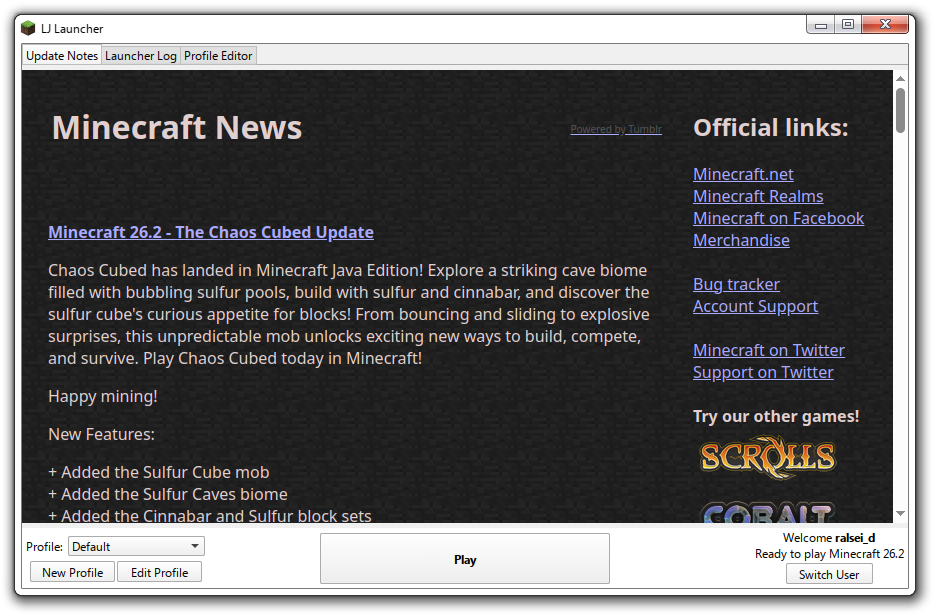
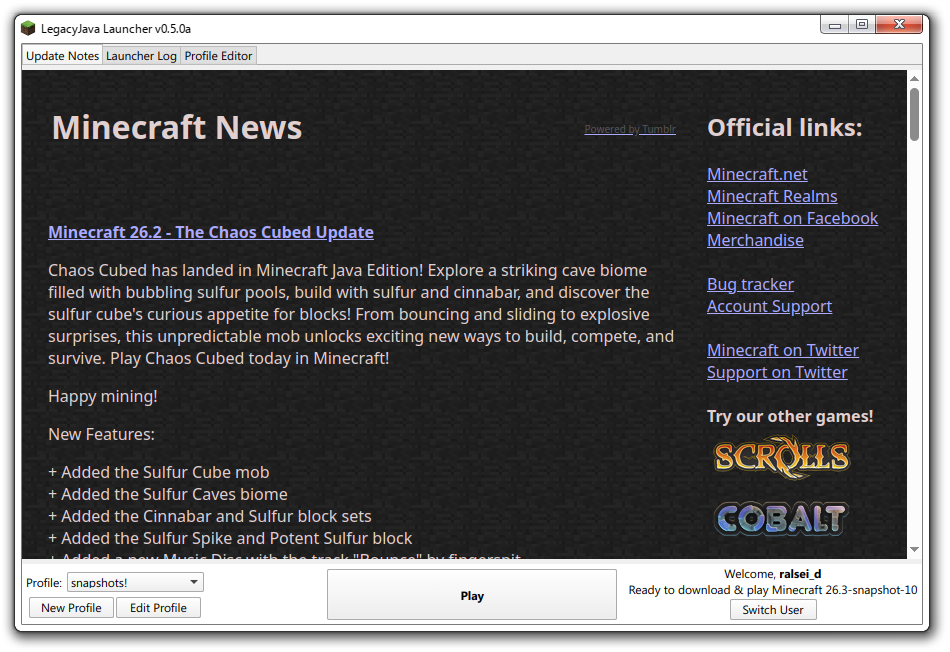
chore(config): update docs

Changed region(s): [[0.0, 0.0, 0.9915, 0.987], [0.5887, 0.1851, 0.7126, 0.2159]]

diff --git a/README.md b/README.md
@@ -7,13 +7,15 @@ This is an accurate-as-possible recreation of Mojang's Classic Minecraft Launche
 I made this in order to understand the fundamentals of how a minecraft launcher works. It taught me how to use dedicated libraries to interact with APIs that provide user authentication, game validity checking and updating attributes. It also required me to create a Microsoft Entra Application, along with applying for access to the Mojang API. It also helped me work with applications that contain different screens, i.e. login screen, main menu, etc. This project incorporates the fundamentals that I learnt from another project, [Run-7](https://github.com/jayrickaby/run-7), to create something that is bigger.
 
 ## Features
-- Microsoft Authentication
+- Full and Secure Microsoft Authentication
 - A full recreation of the MCUpdate Tumblr Blog
-- Version Configurations, Downloading and Launching
-- ~~Profile Creation, Editing and Deletion~~ (TODO)
+- Version Profile Configuration
+- Selection of Alphas, Betas and Snapshots
 - ~~A full recreation of all aspects of the original launcher~~ (TODO)
 - ~~Player Customisation~~ (TODO)
 
 ## Gallery
 <img src="docs/assets/gallery/login.png" width=50% alt="login">
 <img src="docs/assets/gallery/launcher.png" width=50% alt="launcher">
+<img src="docs/assets/gallery/profileEditor.png" width=50% alt="launcher">
+<img src="docs/assets/gallery/profilePage.png" width=50% alt="launcher">
